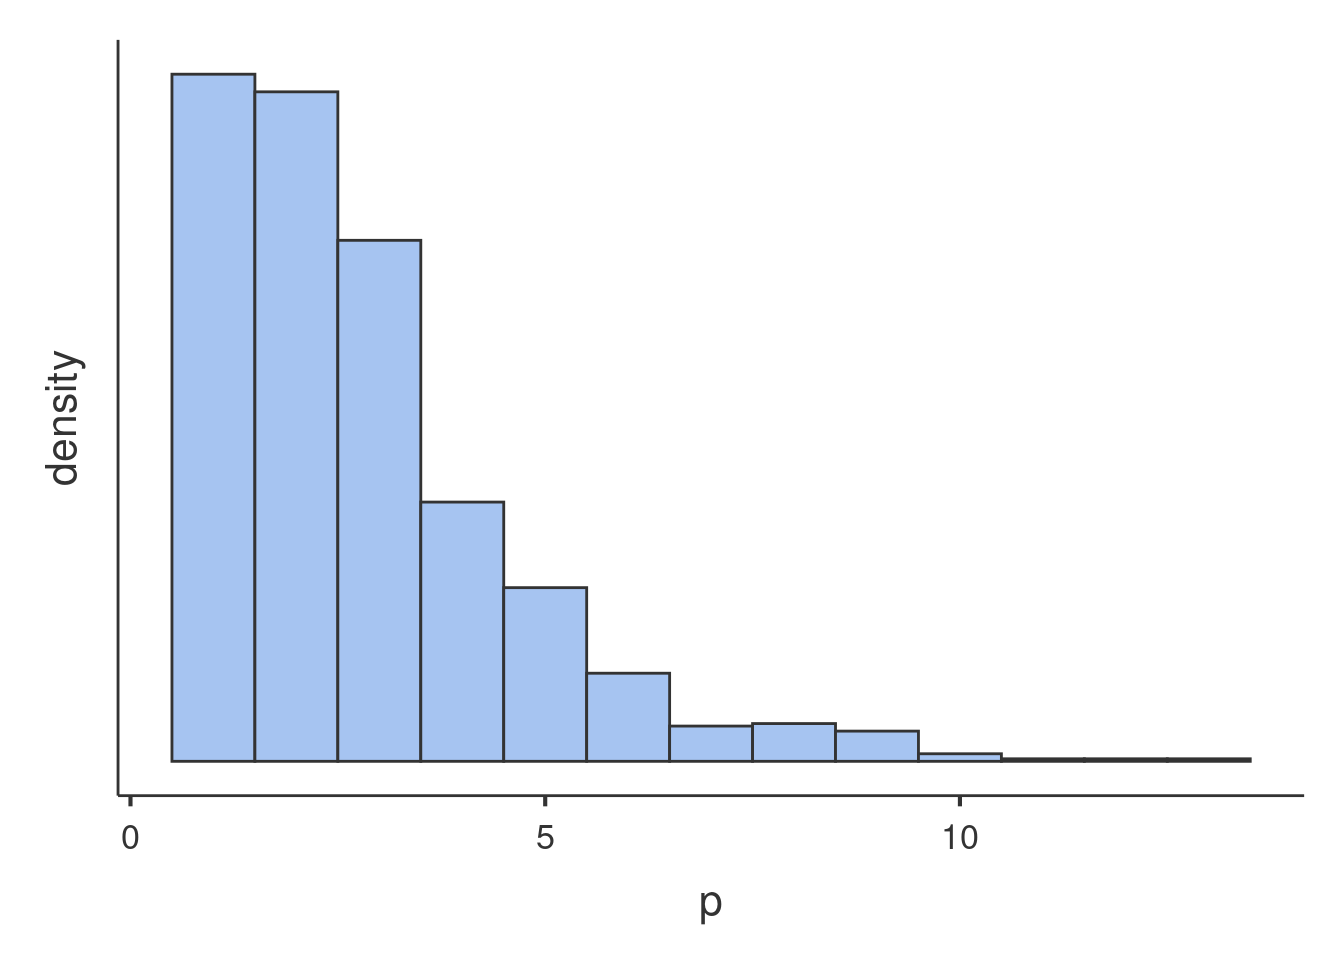
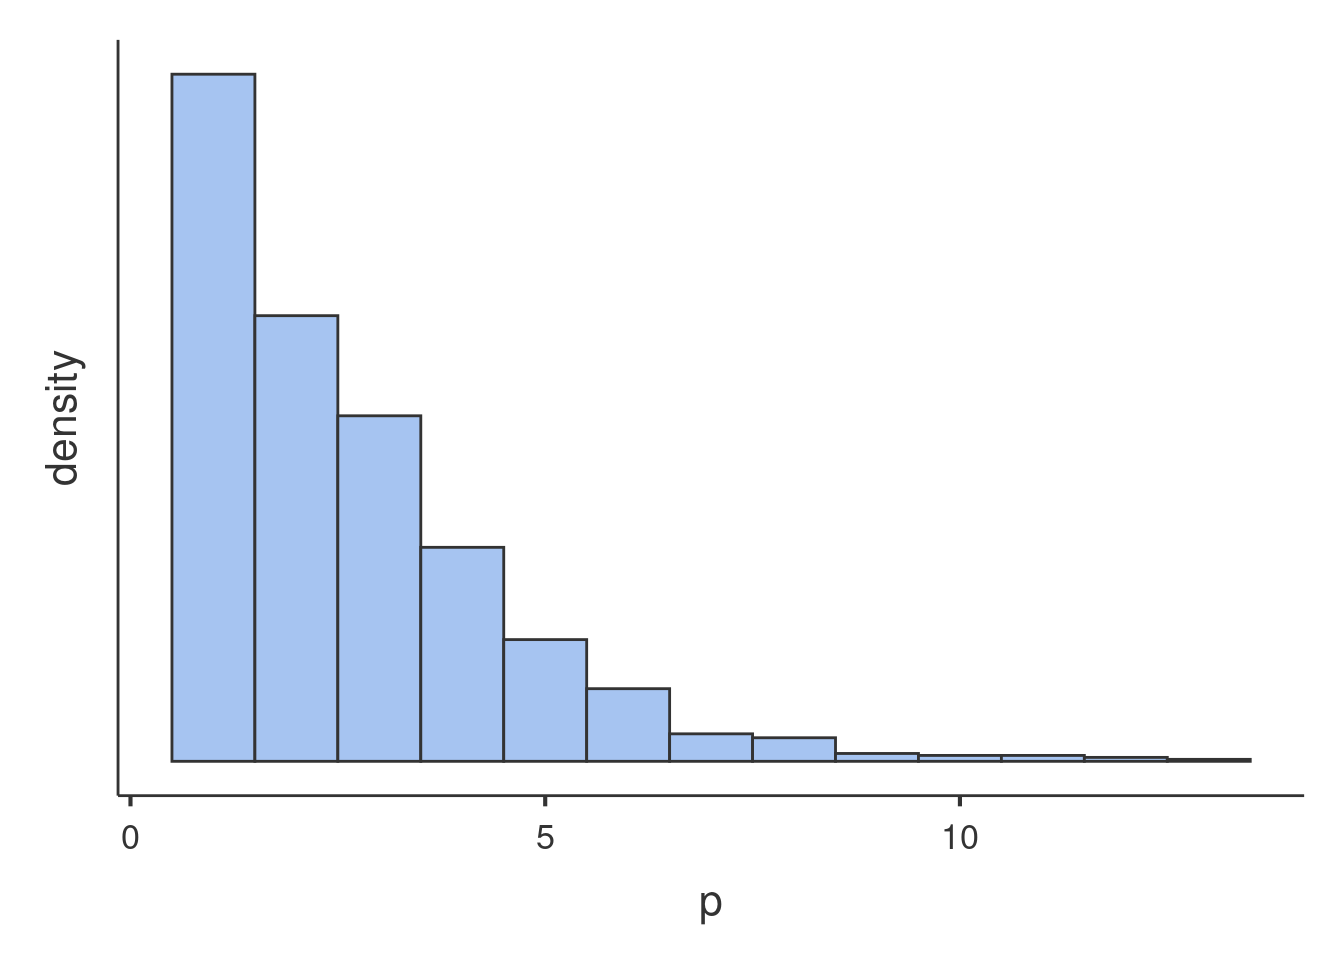
updates

diff --git a/glmmixed_example2.html b/glmmixed_example2.html
@@ -389,7 +389,7 @@ div.tocify {
 <p><img src="glmmixed_example2_files/figure-html/unnamed-chunk-2-1.png" width="672" /></p>
 <p>Glancing at the histogram makes it clear that the distribution is not normal, but it roughly resembles the Poisson distribution. Here is an example of Poisson distribution with equivalent mean.</p>
 <p><img src="glmmixed_example2_files/figure-html/unnamed-chunk-3-1.png" width="672" /></p>
-<p>We can see that the shape of our distribution is not qualitatively very different as compared with a theoretical Poisson distribution, so a Generalized Linear Model with Poisson distribition may work. However, we can check wheather our distribution is in line with the features of the Poisson dist by checking its mean and variance. The Poisson distribution has variance equal to the mean, in fact the simulated distribution in the histogram has <span class="math inline">\(\bar{x}=1.689\)</span> and <span class="math inline">\(s^2=1.688\)</span>. The <code>art</code> variable distribution has <span class="math inline">\(\bar{x}=1.693\)</span> and <span class="math inline">\(s^2=3.71\)</span>, with a ratio variance/mean of 2.191, which does not really qualify for Poisson dist. This looks like a case of <strong>overdispersion</strong>, <a href="http://bbolker.github.io/mixedmodels-misc/glmmFAQ.html#overdispersion">cf. here for details</a>. We will than consider a Negative Binomial model to account for possible overdispersion.</p>
+<p>We can see that the shape of our distribution is not qualitatively very different as compared with a theoretical Poisson distribution, so a Generalized Linear Model with Poisson distribition may work. However, we can check wheather our distribution is in line with the features of the Poisson dist by checking its mean and variance. The Poisson distribution has variance equal to the mean, in fact the simulated distribution in the histogram has <span class="math inline">\(\bar{x}=1.651\)</span> and <span class="math inline">\(s^2=1.779\)</span>. The <code>art</code> variable distribution has <span class="math inline">\(\bar{x}=1.693\)</span> and <span class="math inline">\(s^2=3.71\)</span>, with a ratio variance/mean of 2.191, which does not really qualify for Poisson dist. This looks like a case of <strong>overdispersion</strong>, <a href="http://bbolker.github.io/mixedmodels-misc/glmmFAQ.html#overdispersion">cf. here for details</a>. We will than consider a Negative Binomial model to account for possible overdispersion.</p>
 <p>An example of Negative Binomial distribution with equivalent mean and variance is here.</p>
 <p><img src="glmmixed_example2_files/figure-html/unnamed-chunk-4-1.png" width="672" /></p>
 <p>The second issue one needs to deal with is the structure of the data. We have seen that the students are not a random sample of students drawn independently one each other, but they are grouped by the program they are enrolled in. There are 83 programs, in each program there are on average 11 students. Because students in the same program may be more similar one each other than across programs, <code>programs</code> may cluster the scores of the dependent variable and create dependency in the data. To take dependency into the account, we will use a random intercepts model estimated with a Generalized Mixed Model.</p>

diff --git a/details_glm_effectsize.html b/details_glm_effectsize.html
@@ -421,7 +421,7 @@ div.tocify {
 <li><span class="math inline">\(SS_{yx.z}^*=1516/29624 =0.051\)</span></li>
 <li><span class="math inline">\(SS_{yz.x}^*=4298/29624 =0.145\)</span></li>
 </ul>
-<p>that are clearly not corresponding to the <span class="math inline">\(r_{sp}^2\)</span>, as they should be. We should note, however, that the two methods of estimation usually gives very similar results, even when <span class="math inline">\(SS_{total}^*=SS_{total}\)</span>.</p>
+<p>that are clearly not corresponding to the <span class="math inline">\(r_{sp}^2\)</span>, as they should be. We should note, however, that the two methods of estimation usually give very similar results, even when <span class="math inline">\(SS_{total}^*=SS_{total}\)</span>.</p>
 <p>The same reasoning holds for all the non-partial indices.</p>
 </div>
 <div id="eta2p-partial-eta-squared" class="section level1">
